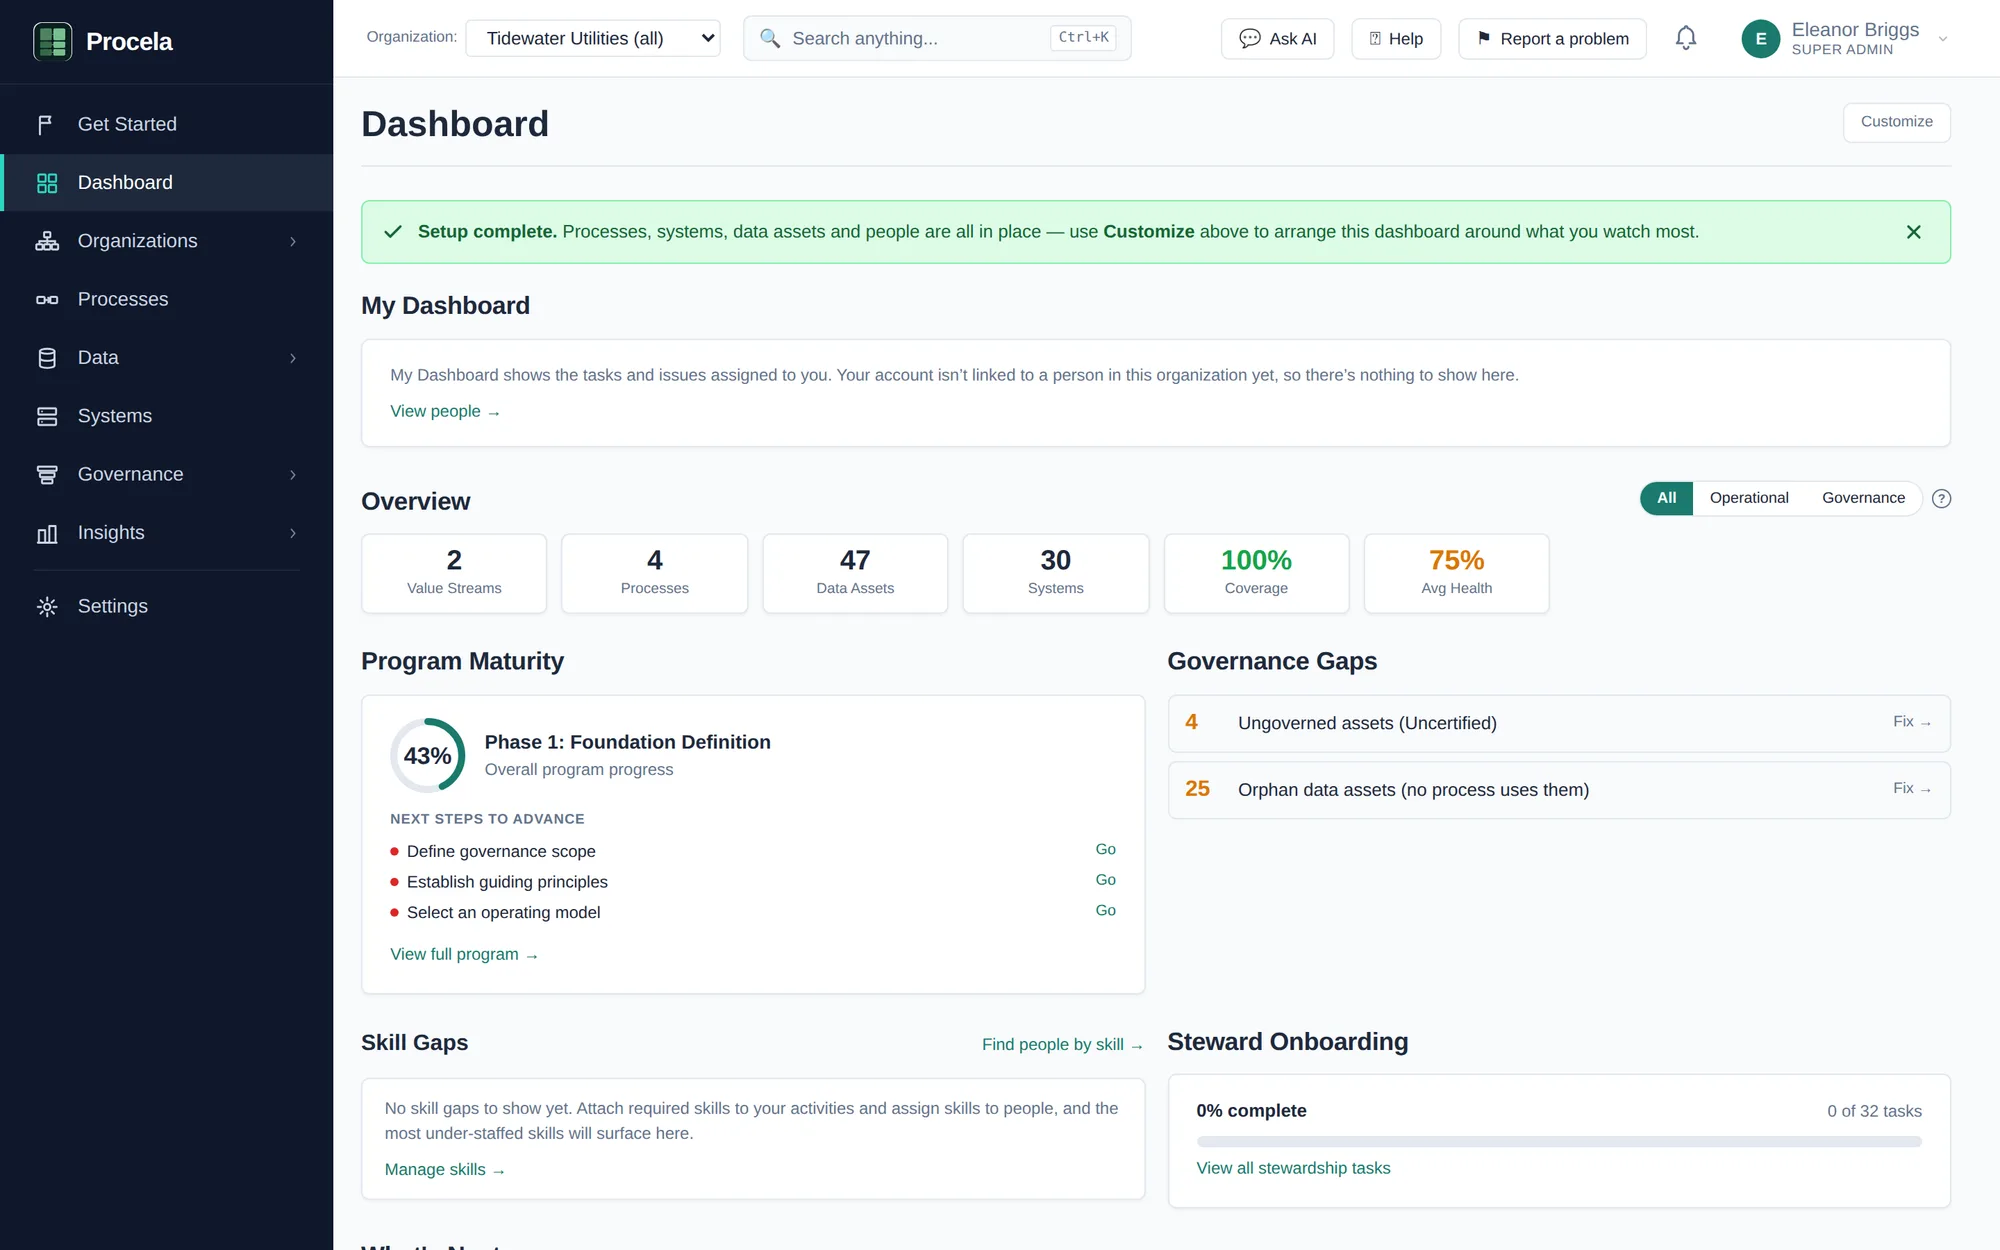
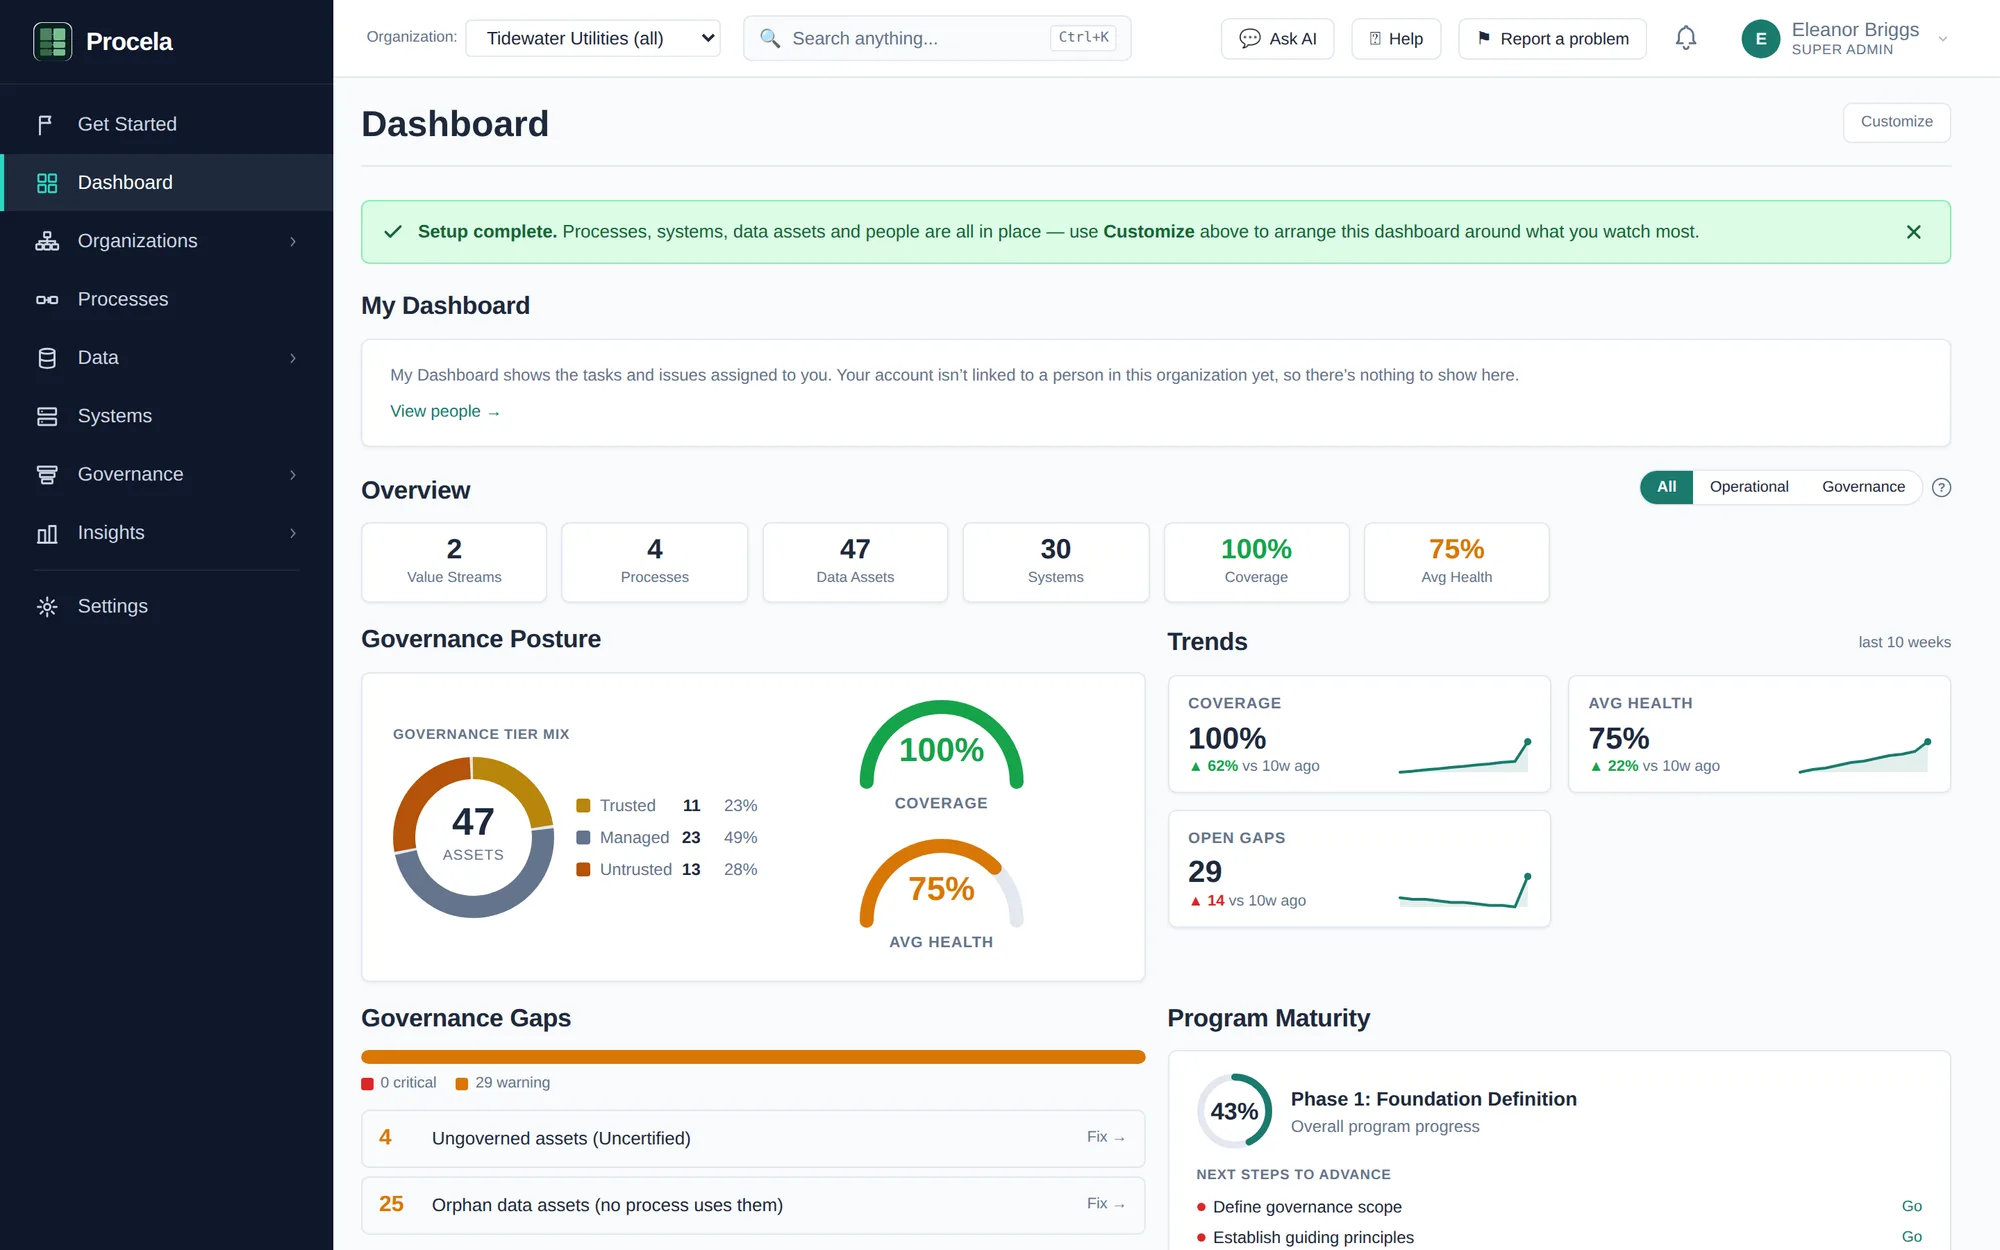
Update home hero to the redesigned product dashboard (#32)
Recapture the home-page hero against the reworked product dashboard (Governance Posture donut + gauges, Trends sparklines) using the same rich demo org, and refresh its alt text.

diff --git a/app/page.tsx b/app/page.tsx
@@ -93,7 +93,7 @@ export default function Home() {
         <div className="hero-shot">
           <BrowserFrame
             src="/screenshots/hero.webp"
-            alt="The Procela dashboard showing governance coverage across value streams, processes, data assets, and systems."
+            alt="The Procela dashboard showing governance posture — coverage, data health, and tier mix — with trend charts across value streams, processes, data assets, and systems."
             priority
           />
         </div>
